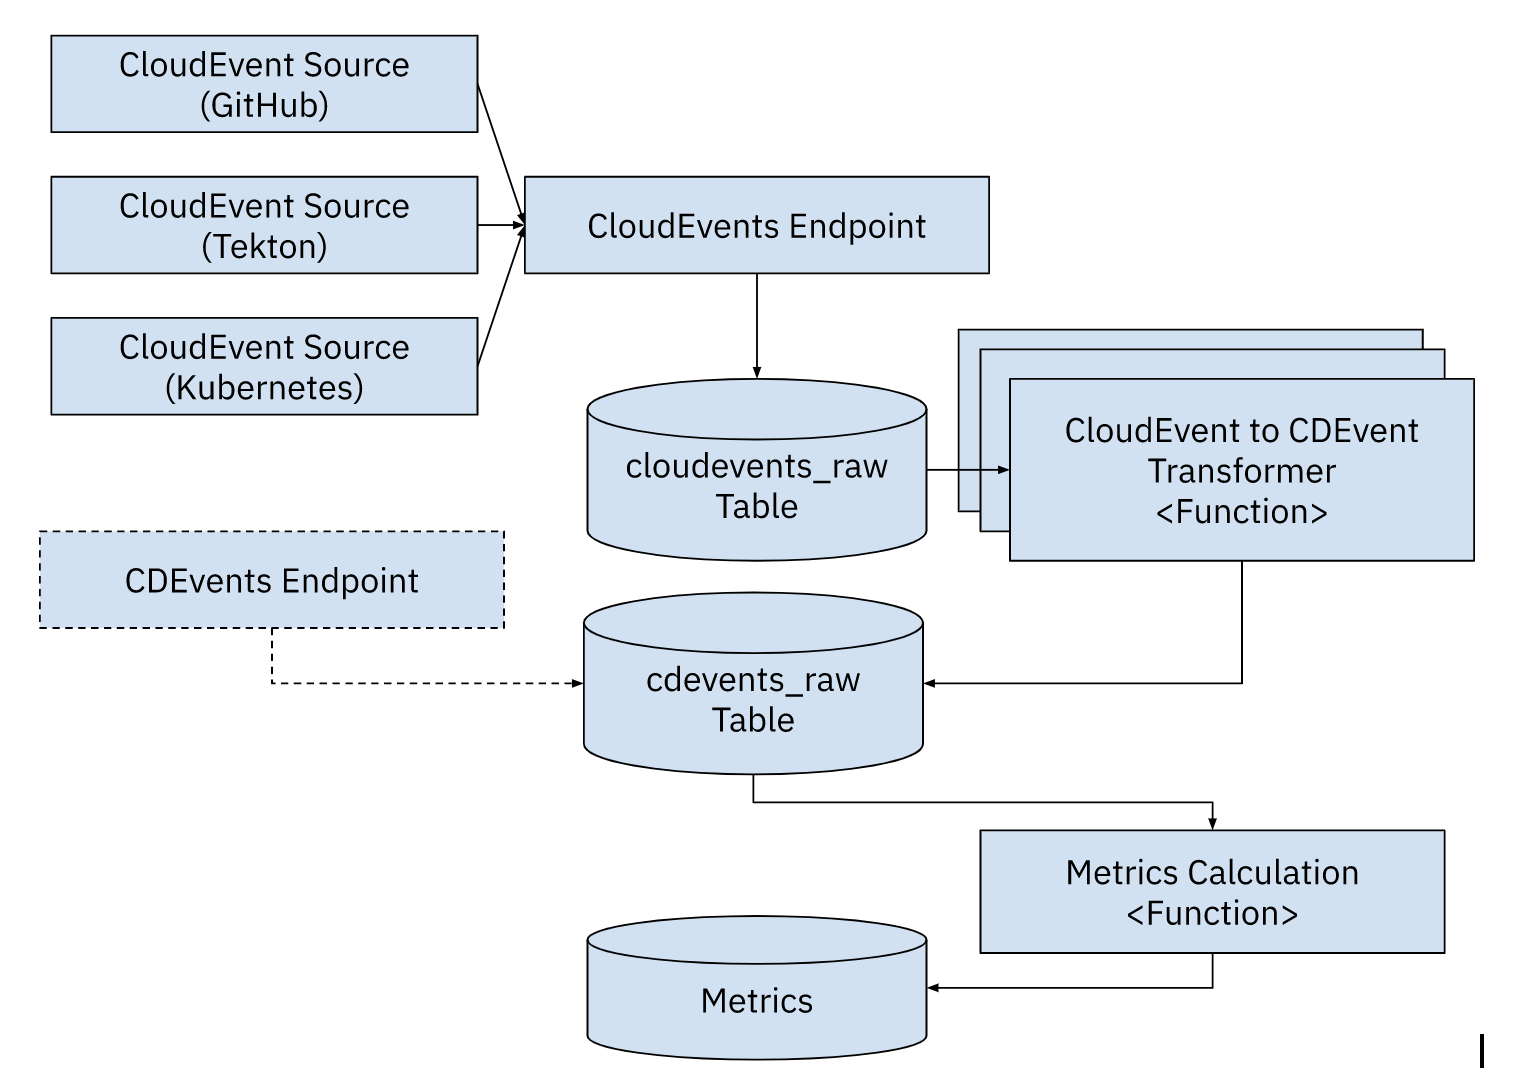
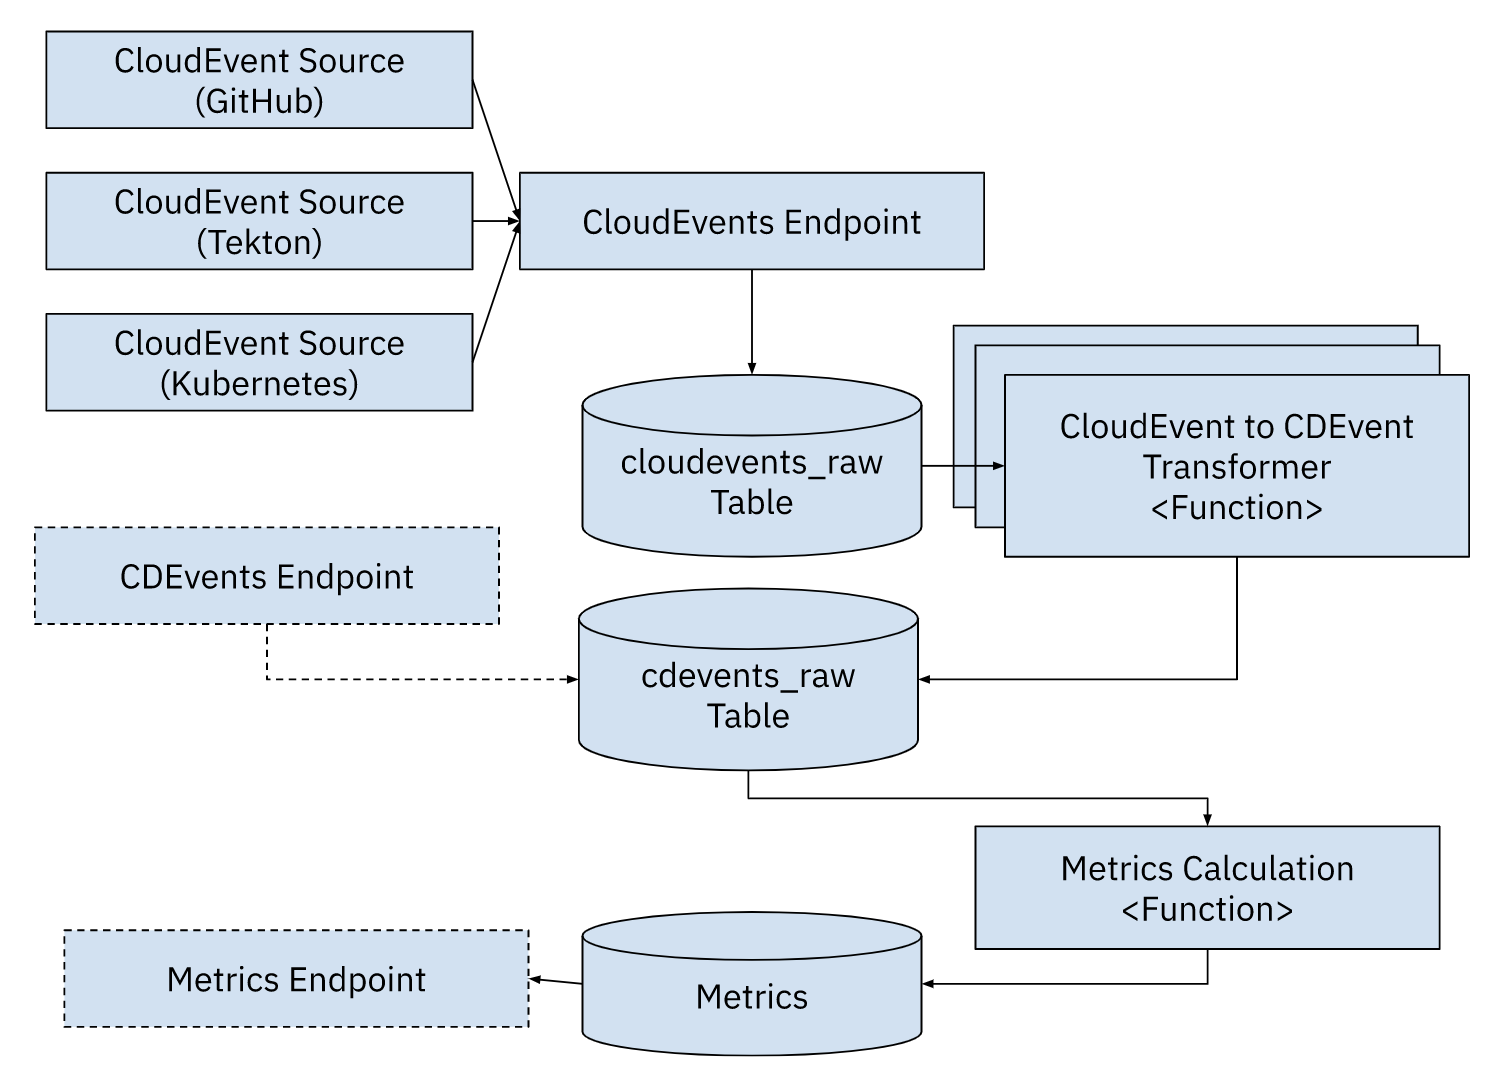
updating diagram

diff --git a/four-keys/README.md b/four-keys/README.md
@@ -6,11 +6,16 @@ This project was designed to consume Cloud Events and allow you to track the Fou
 
 ## Components
 
-- `CloudEvents Raw`: endpoint to send all CloudEvents, these CloudEvents will be stored in the SQL database to the `cloudevents-raw` table. 
+- `CloudEvents Endpoint`: endpoint to send all CloudEvents, these CloudEvents will be stored in the SQL database to the `cloudevents-raw` table. 
 
-- `CDEvents tranformers`: These functions will read from the `cloudevents-raw` table and tranform the CloudEvents to CDEvents only when apply based on the function's mapping. The results needs to be stored into the cdevents-raw table for further processing.
+- (Optional) `CDEvents Endpoint`: endpoint to send CDEvents, these CloudEvents will be stored in the SQL database to the `cdevents-raw` table, as they do not need any transformation. This endpoint validates that the CloudEvent received is a CD CloudEvent. 
 
-- 
+- `CDEvents tranformers`: These functions will read from the `cloudevents-raw` table and tranform the CloudEvents to CDEvents only when apply based on the function's mapping. The results needs to be stored into the `cdevents-raw` table for further processing.
+
+- `Metrics functions`: These functions are in charge of calculating different metrics and store them into special tables, probably one per table. To calculate metrics these functions read from `cdevents-raw`.
+
+- (Optional) `Metrics Endpoint`: allows you to query the metrics by name and add some filters. This is an optional component, as you can build a dashboard from the metrics tables without using the endpoints.
+
 
 ![imgs/four-keys-architecture.png](imgs/four-keys-architecture.png)
 
